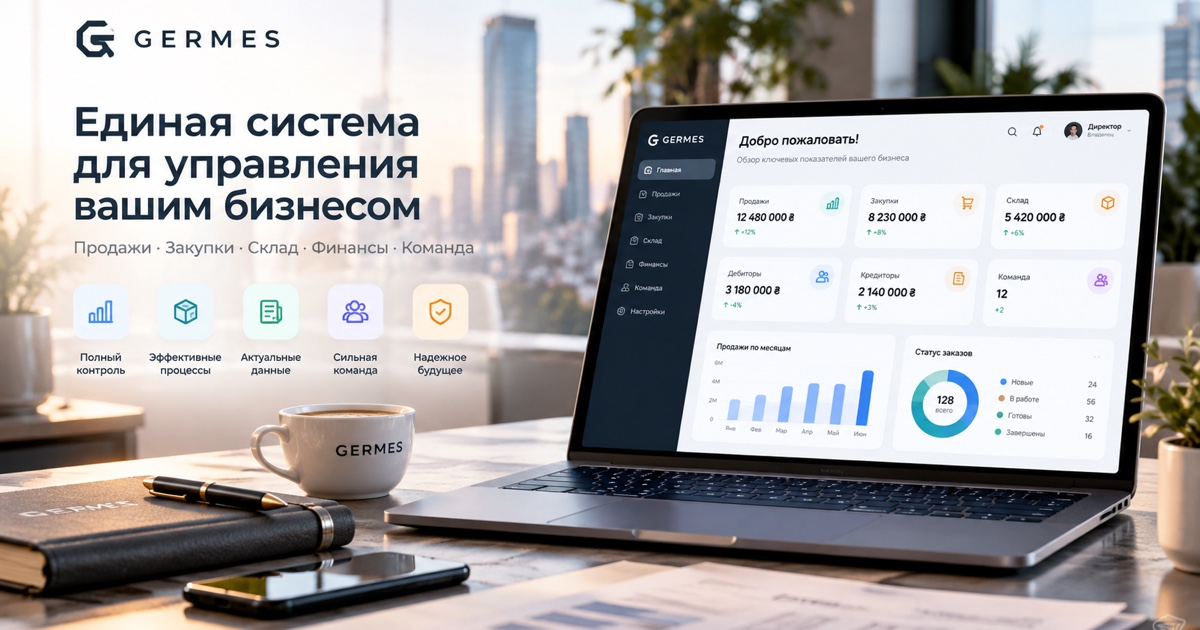
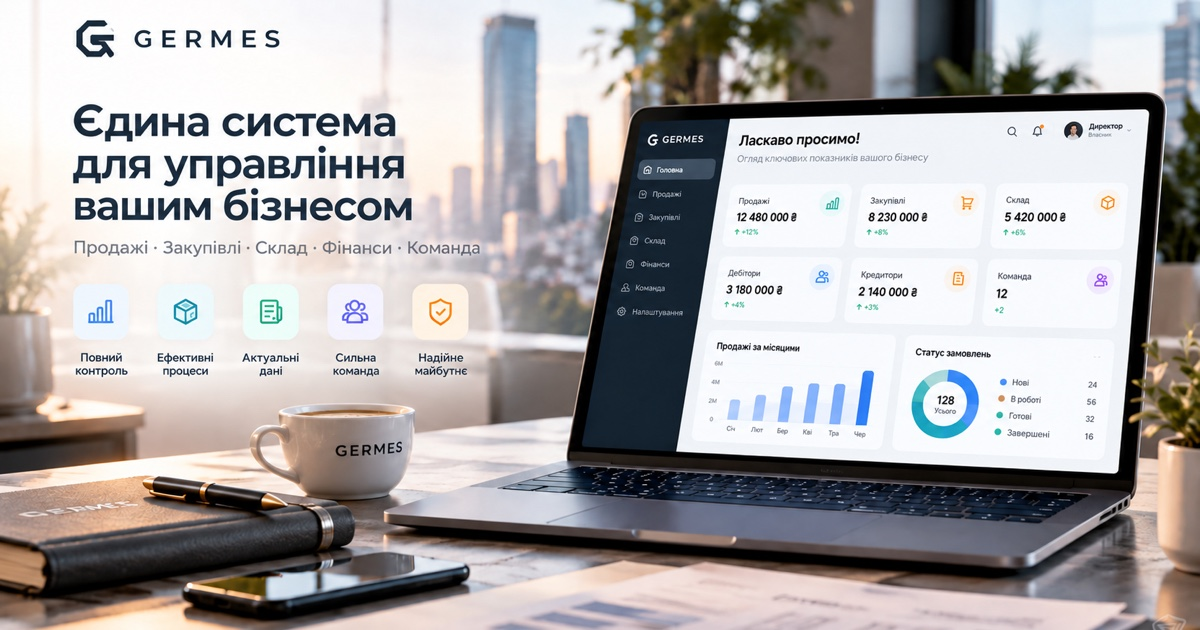
feat: localize Germes social preview to Ukrainian

diff --git a/app/layout.tsx b/app/layout.tsx
@@ -13,8 +13,8 @@ const geistMono = Geist_Mono({
   subsets: ["latin"],
 });
 
-const SITE_TITLE = "Germes — система управления бизнесом";
-const SITE_DESCRIPTION = "Продажи, закупки, склад, финансы и управление компанией в одной системе.";
+const SITE_TITLE = "Germes — система управління бізнесом";
+const SITE_DESCRIPTION = "Продажі, закупівлі, склад, фінанси та управління компанією в одній системі.";
 
 // Social preview: the image itself is the file-based app/opengraph-image.jpg
 // (+ .alt.txt). No metadataBase — on Vercel production Next.js resolves it
